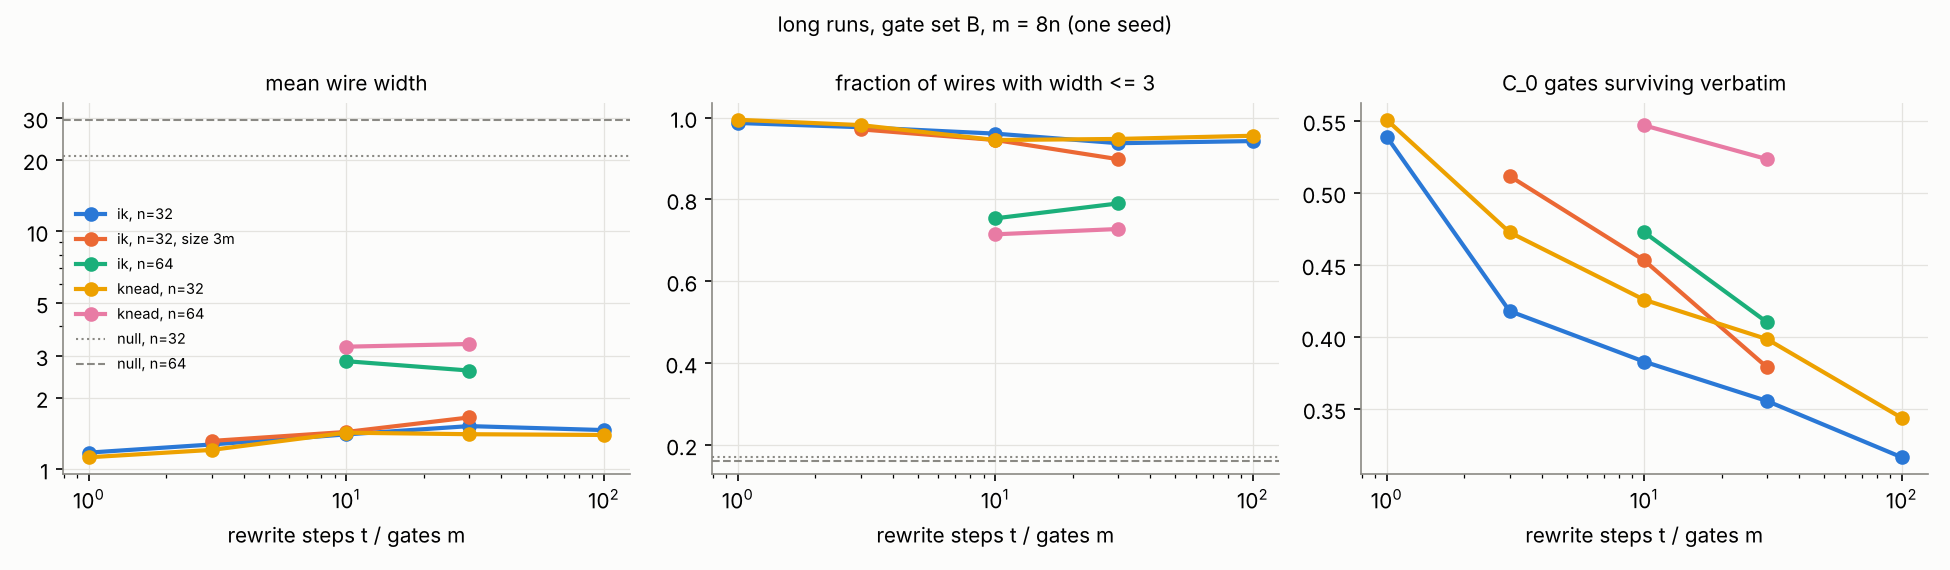
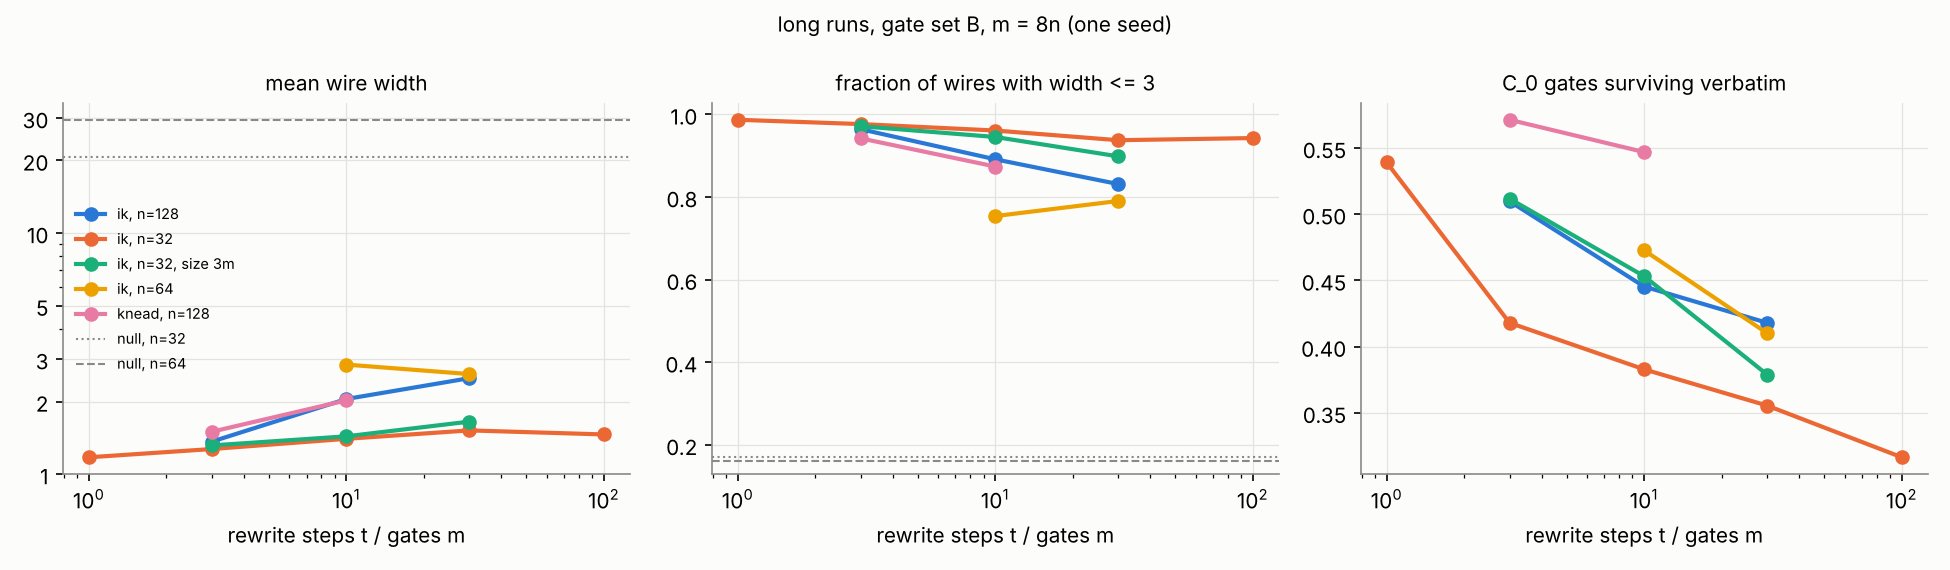
Round 2: add n=128 t=30m width (2.50, still rising slowly to the n=64 level)
Claude-Session: https://claude.ai/code/session_013nR8kAhamt336oGUvRVdFz

diff --git a/REPORT_ROUND2.md b/REPORT_ROUND2.md
@@ -22,8 +22,9 @@ In this round:
      ≤ 3.4 (1.2–3.4 at t ≥ 10m). For unrelated circuits it is 21 (n = 32) to
      30 (n = 64).
    - At n = 32 it flattens by t ≈ 10m and stays flat up to 100m. At n = 64 it
-     is the same at 10m and 30m. At n = 128 and t = 10m it is 2.0, inside the
-     n = 64 range, so there is no visible growth with n.
+     is the same at 10m and 30m. At n = 128 it is still rising slowly (2.05 at
+     10m, 2.50 at 30m), but only up to the n = 64 level. There is no sign yet
+     that the plateau grows with n.
    - Gates keep changing (only 32% of C_0's gates are left verbatim at t = 100m),
      but the correspondence to C_0 stays local.
    - Letting inflation grow C_t to 3m does not change this (width 1.65 at 30m).
@@ -160,6 +161,7 @@ n = 64, m = 512, means over 2 seeds:
 | 64 | knead | 30 | 512 | 3.36 | 73% | 12.0 | 0.52 |
 | 128 | ik | 3 | 1280 | 1.36 | 96% | 6.6 | 0.51 |
 | 128 | ik | 10 | 1280 | 2.05 | 89% | 10.8 | 0.45 |
+| 128 | ik | 30 | 1280 | 2.50 | 83% | 12.6 | 0.42 |
 | 128 | knead | 3 | 1024 | 1.50 | 94% | 8.3 | 0.57 |
 | 128 | knead | 10 | 1024 | 2.02 | 87% | 10.7 | 0.55 |
 
@@ -168,9 +170,12 @@ and 29.5 (n = 64), with 16–17% of wires at width ≤ 3.
 
 - The width reaches a plateau. At n = 32 it is flat from 10m to 100m, for
   both `knead` and `ik`. At n = 64 it is the same at 10m and 30m.
-- **The plateau shows no growth with n.** n = 128 at t = 10m (2.0) lies inside
-  the n = 64 range (1.3–3.3 across seeds). n = 32 sits slightly lower,
-  possibly a small-torus effect.
+- **No growth with n is visible, but n = 128 has not settled yet.** At
+  n = 128, `ik` rises from 2.05 (t = 10m) to 2.50 (t = 30m). That is the
+  level where n = 64 levelled off (2.6–2.85, seed 0). It is consistent with
+  the same plateau reached more slowly, but slow continued growth is not
+  ruled out; that needs t = 100m at n = 128. n = 32 sits lower, possibly a
+  small-torus effect.
 - Meanwhile the circuit keeps changing: gates surviving verbatim fall
   steadily, to 32% at t = 100m.
 - With 3× inflation, the width rises slowly (1.32 → 1.65 from 3m to 30m),
